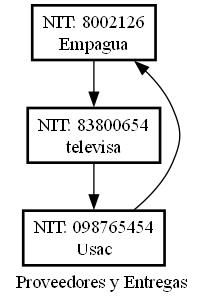
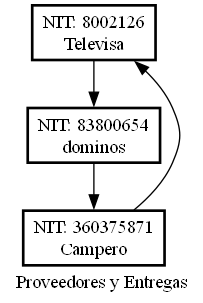
correciones

diff --git a/Proyecto1/ManualTecnico.md b/Proyecto1/ManualTecnico.md
@@ -16,7 +16,7 @@ Esta estructura almacena el catálogo de medicamentos. Se eligió por su capacid
 * **Validación:** Se implementó una función de verificación de tipos para asegurar que campos como `precio` y `stock` sean numéricos antes de la inserción.
 * **Visualización:** Nodos con `shape=record`. El sistema cambia el `fillcolor` a **rojo** si el stock es menor al nivel mínimo, generando una alerta visual inmediata.
 
-[Image of a doubly linked list diagram with rectangular nodes and bidirectional arrows]
+
 
 ### B. Lista Circular de Listas (Proveedores)
 Estructura compuesta para la gestión de proveedores (lista circular simple) y sus entregas (sub-listas simples).
@@ -29,7 +29,7 @@ Utilizada para manejar las colas de reabastecimiento solicitadas por los usuario
 * **Conectividad:** Cada solicitud está enlazada con la anterior y la siguiente; el cierre del círculo es bidireccional.
 * **Flujo:** Funciona bajo un esquema de atención de solicitudes donde el Administrador procesa los nodos desde el frente de la cola.
 
-[Image of a circular doubly linked list data structure showing next and prev pointers closing the loop]
+
 
 ### D. Matriz Dispersa (Precios de Laboratorio)
 Estructura ortogonal que relaciona medicamentos con laboratorios fabricantes y sus respectivos precios.

diff --git a/Proyecto1/ManualUsuario.md b/Proyecto1/ManualUsuario.md
@@ -62,4 +62,3 @@ Al ejecutar el programa, verás el menú principal. El sistema cuenta con dos pe
 
 ---
 
-**¡Gracias por utilizar MedTrack, Luigi!**
